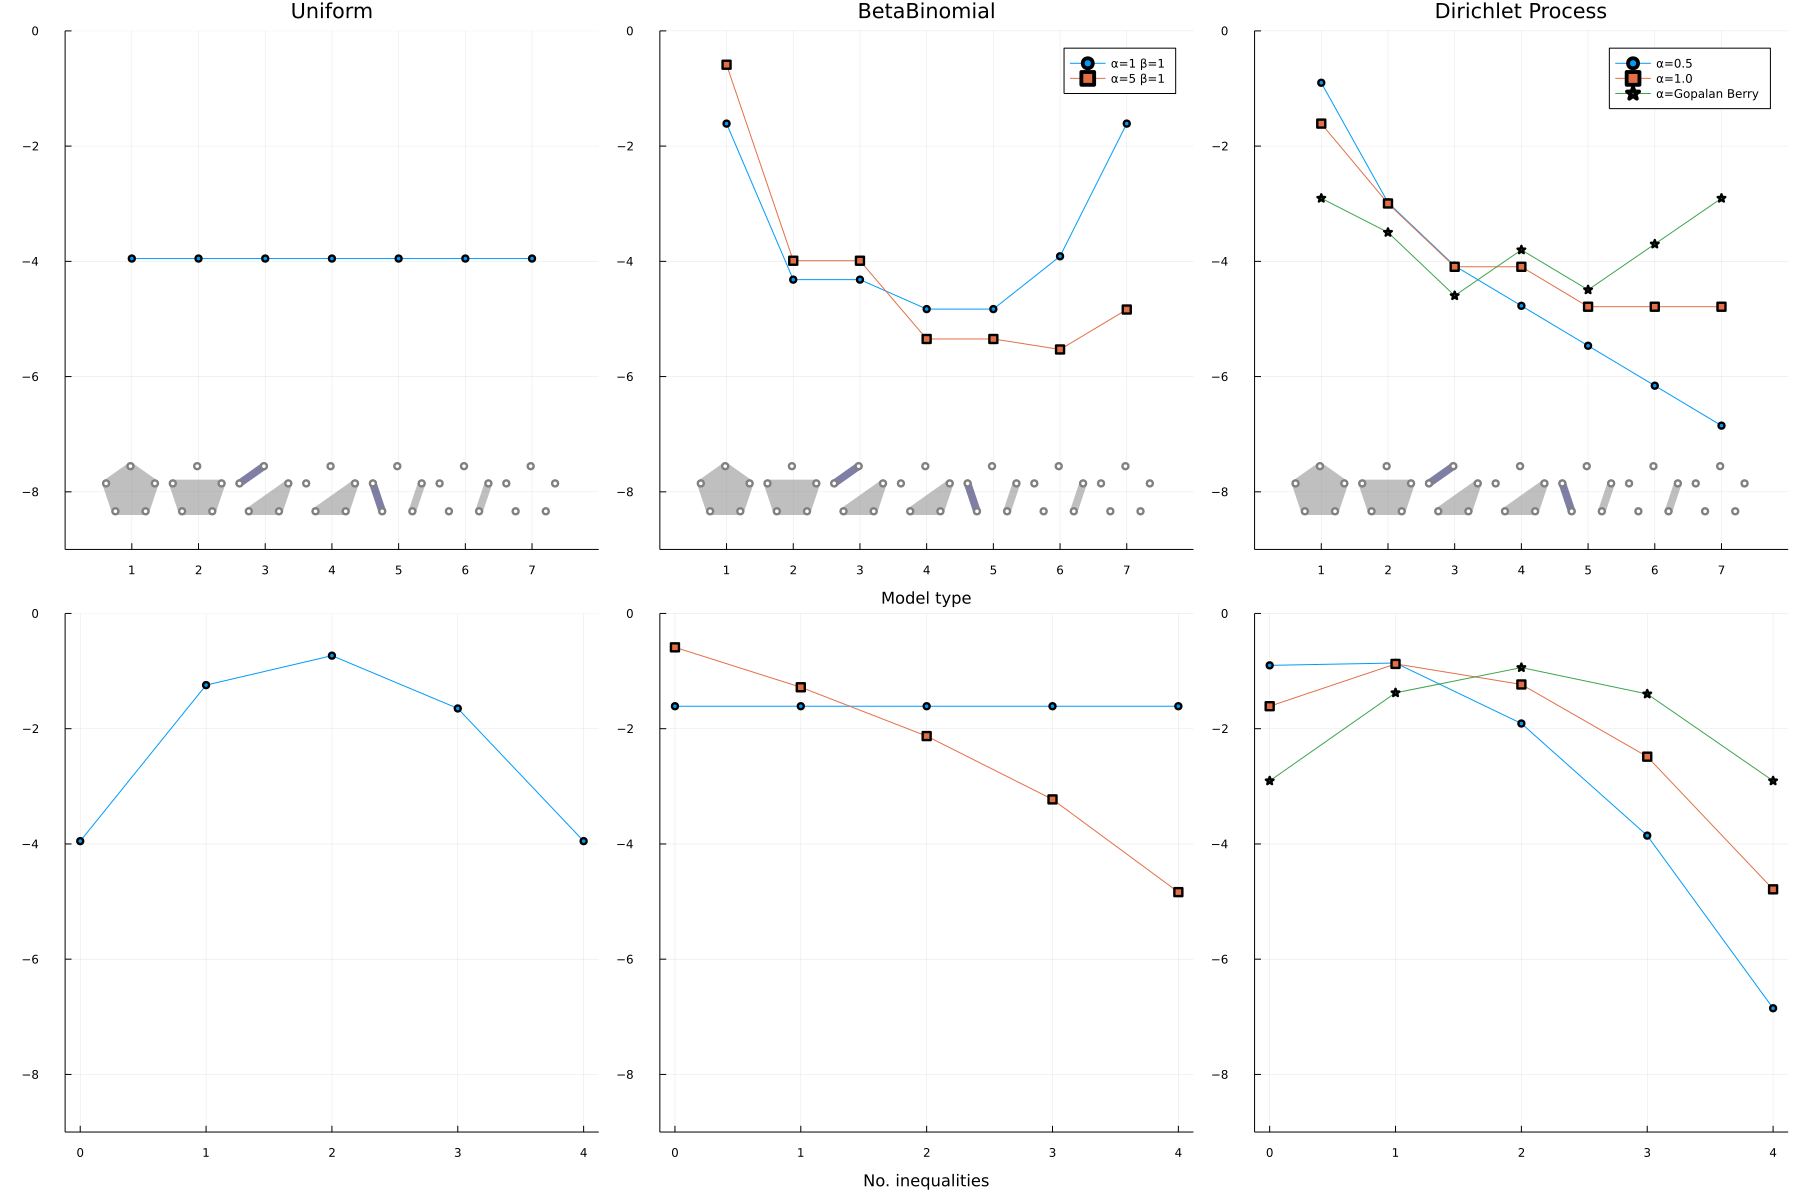
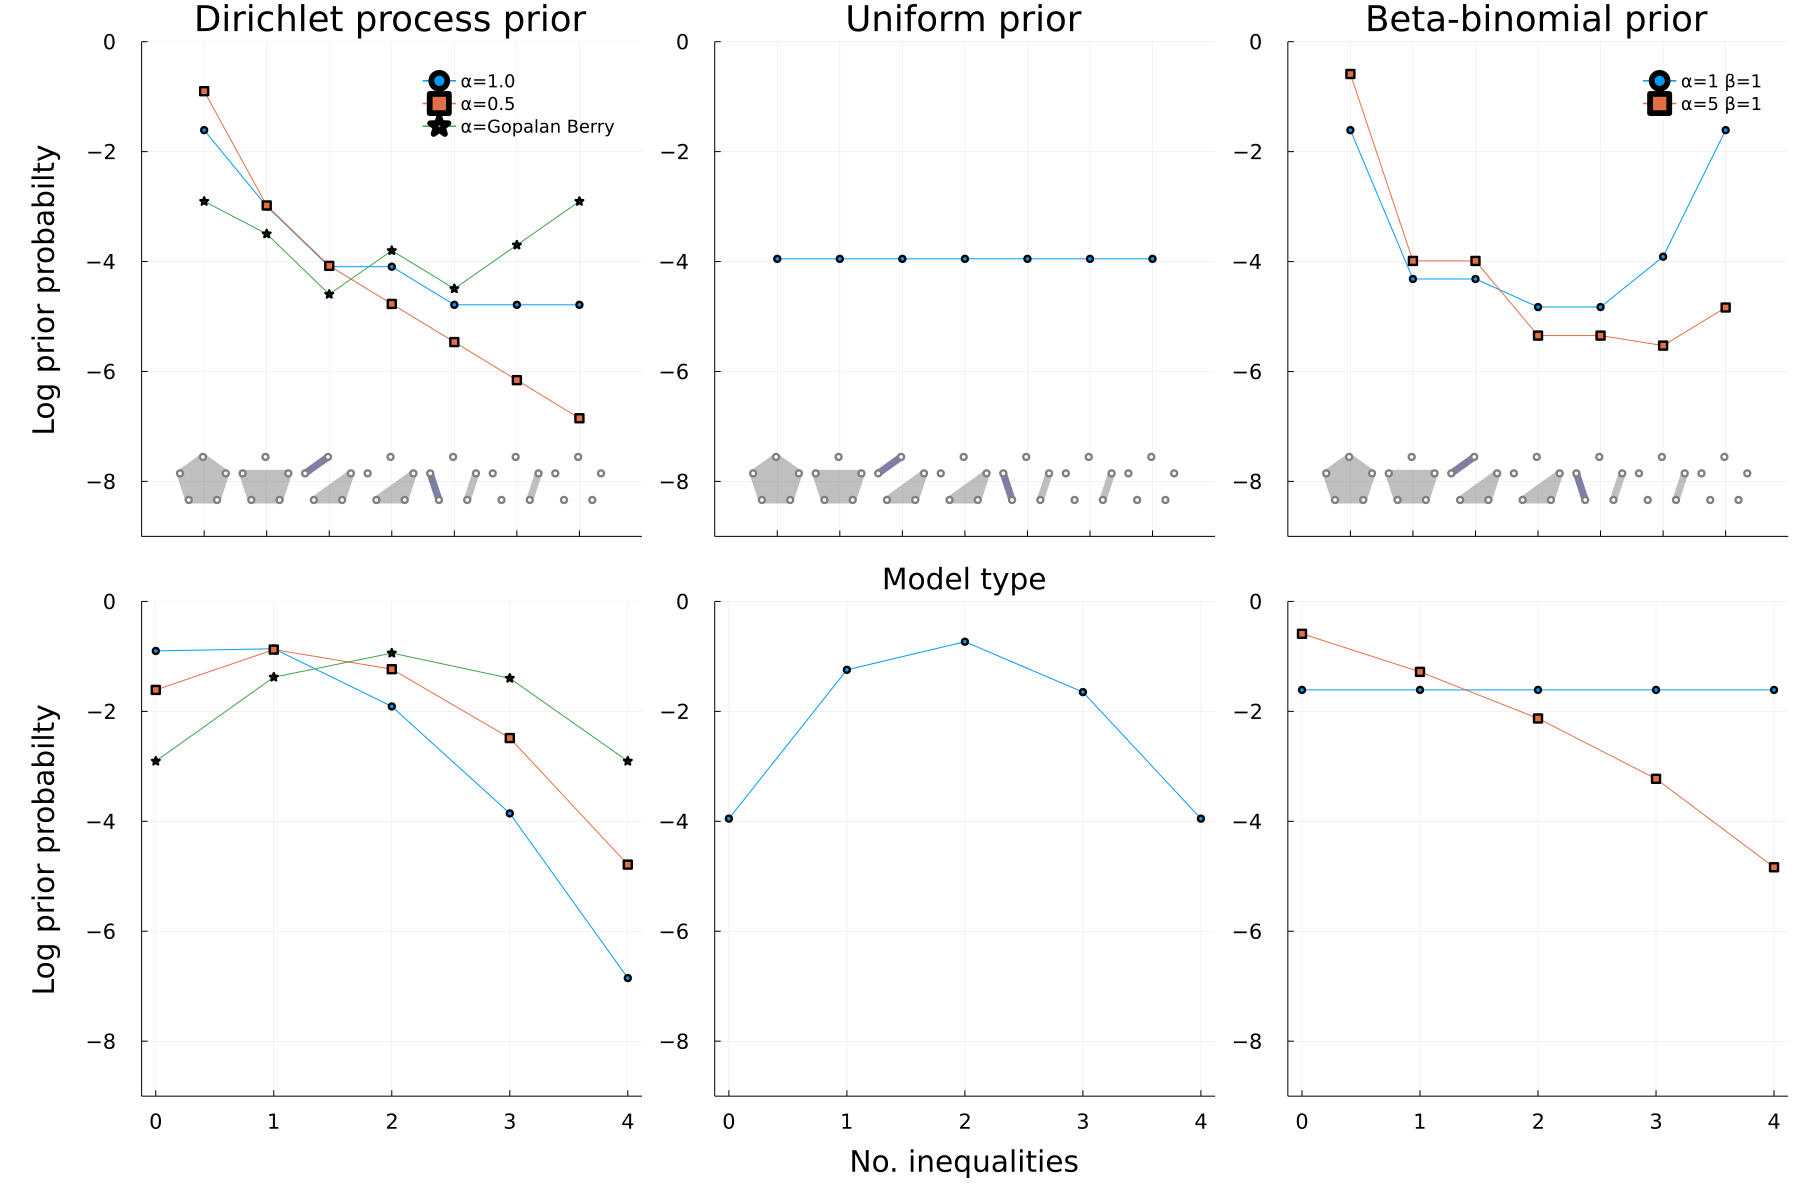
implemented changes for Figure 2 (visualizePriors)

diff --git a/TODO_equality5.md b/TODO_equality5.md
@@ -47,3 +47,35 @@ examine whether DPP prior is not horribly slow!
 
 - [ ] consider looping over the priors within each run
   - [ ] possibly loading the old file to see if every prior is already there
+
+
+### Figure 2
+- [x] Reorder DPP, Uniform, BetaBinomial
+- [x] No box around the legend
+- [x] Left panels need y-axis labels
+- [x] Bigger font size
+- [x] Switch color for DPP so orange line is decreasing
+- [x] Add "Prior" to the column titles
+- [x] Column title "BetaBinomial" -> "Beta-Binomial"
+- [x] Drop partition numbers (x-axis tick labels)
+
+### Figure 3
+- [ ] "BetaBinomial" -> "Beta-Binomial"
+- [ ] "Gopalan Berry" -> "Gopalan & Berry" (ampersand)
+- [ ]
+
+### Figure 4 + Figure 5
+- [ ] check zero vs non-zero?
+- [ ] adjust y-axis limits to (0, .5)
+- [ ] use mean instead of median
+- [ ] create nicer figures for true inequalities (power) and all other options
+
+### Scott & Berger plot
+- [ ] \alpha = 0.5
+- [ ] make figure and add it to the overleaf
+
+### Add proportion demo
+- [ ] Review all the comments in the manuscript
+
+### Appendix
+- [ ] "BetaBinomial" -> "Beta-Binomial"
